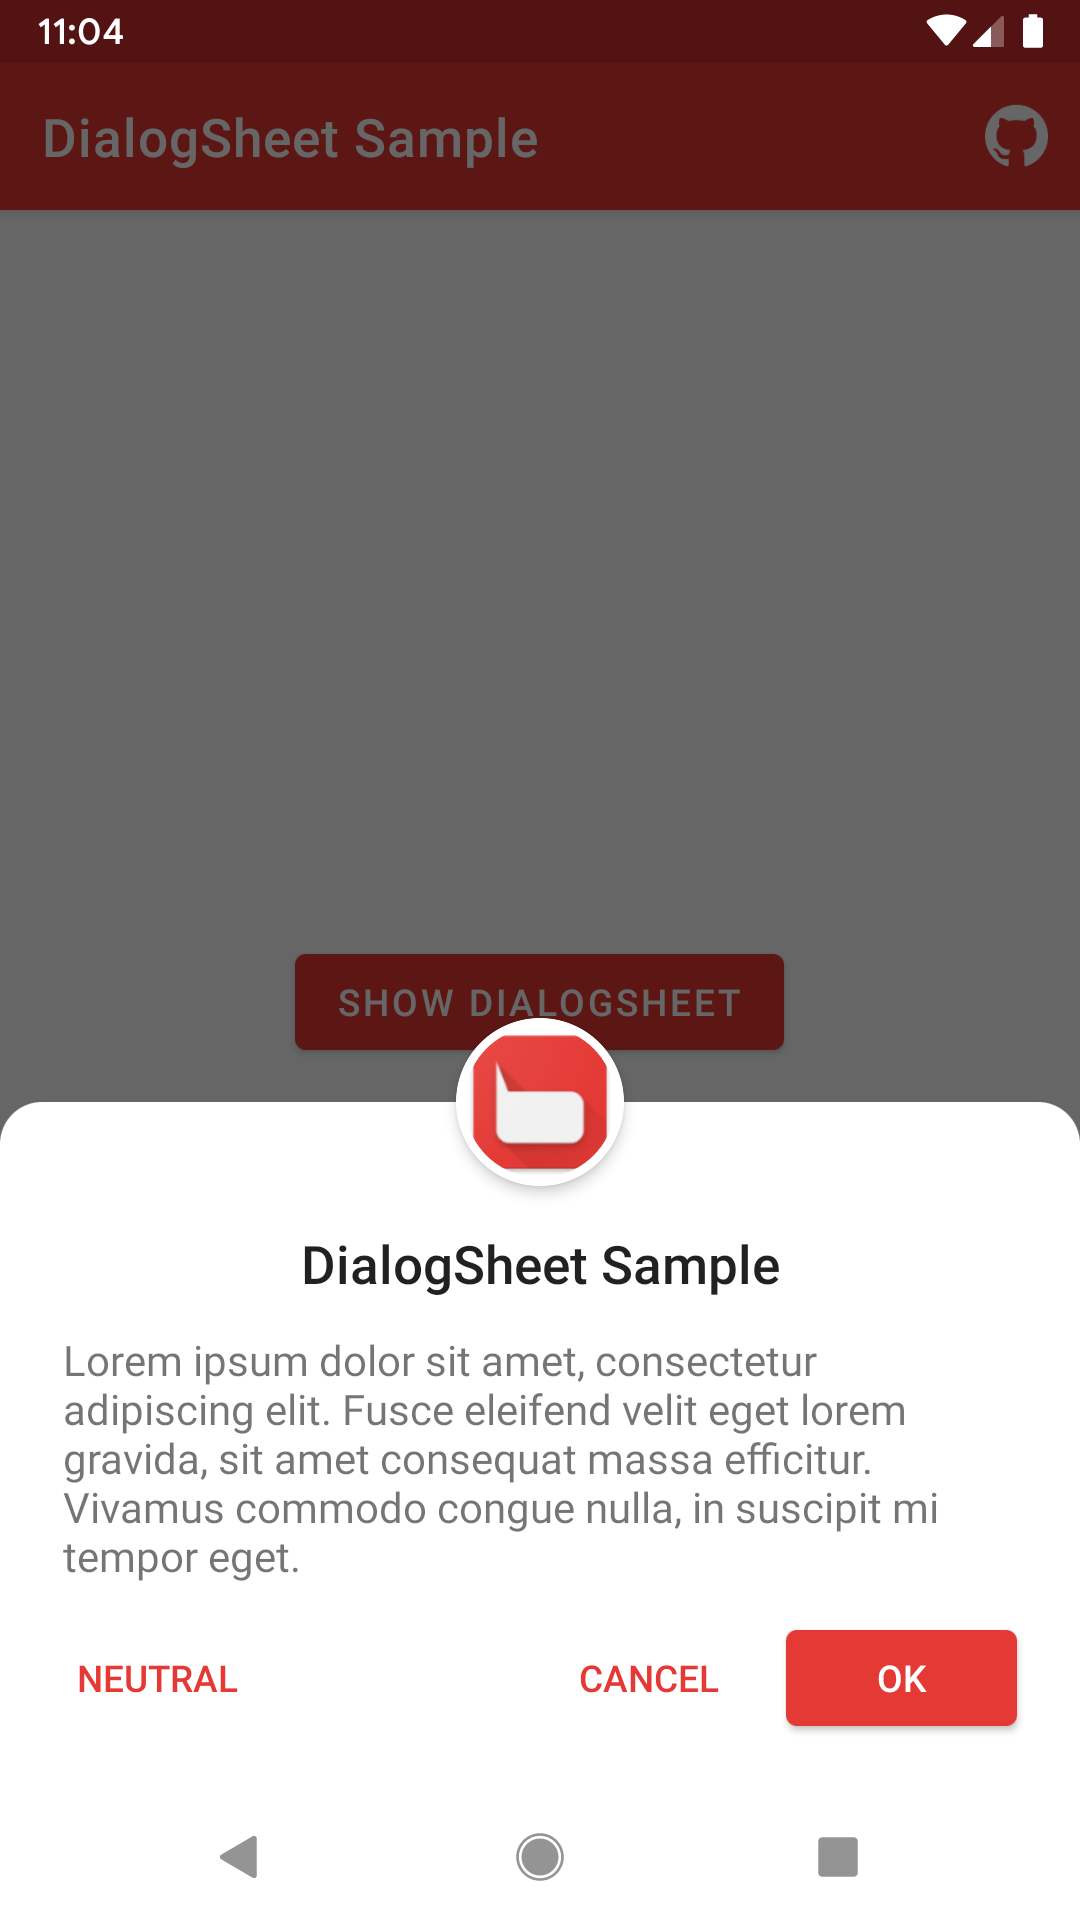
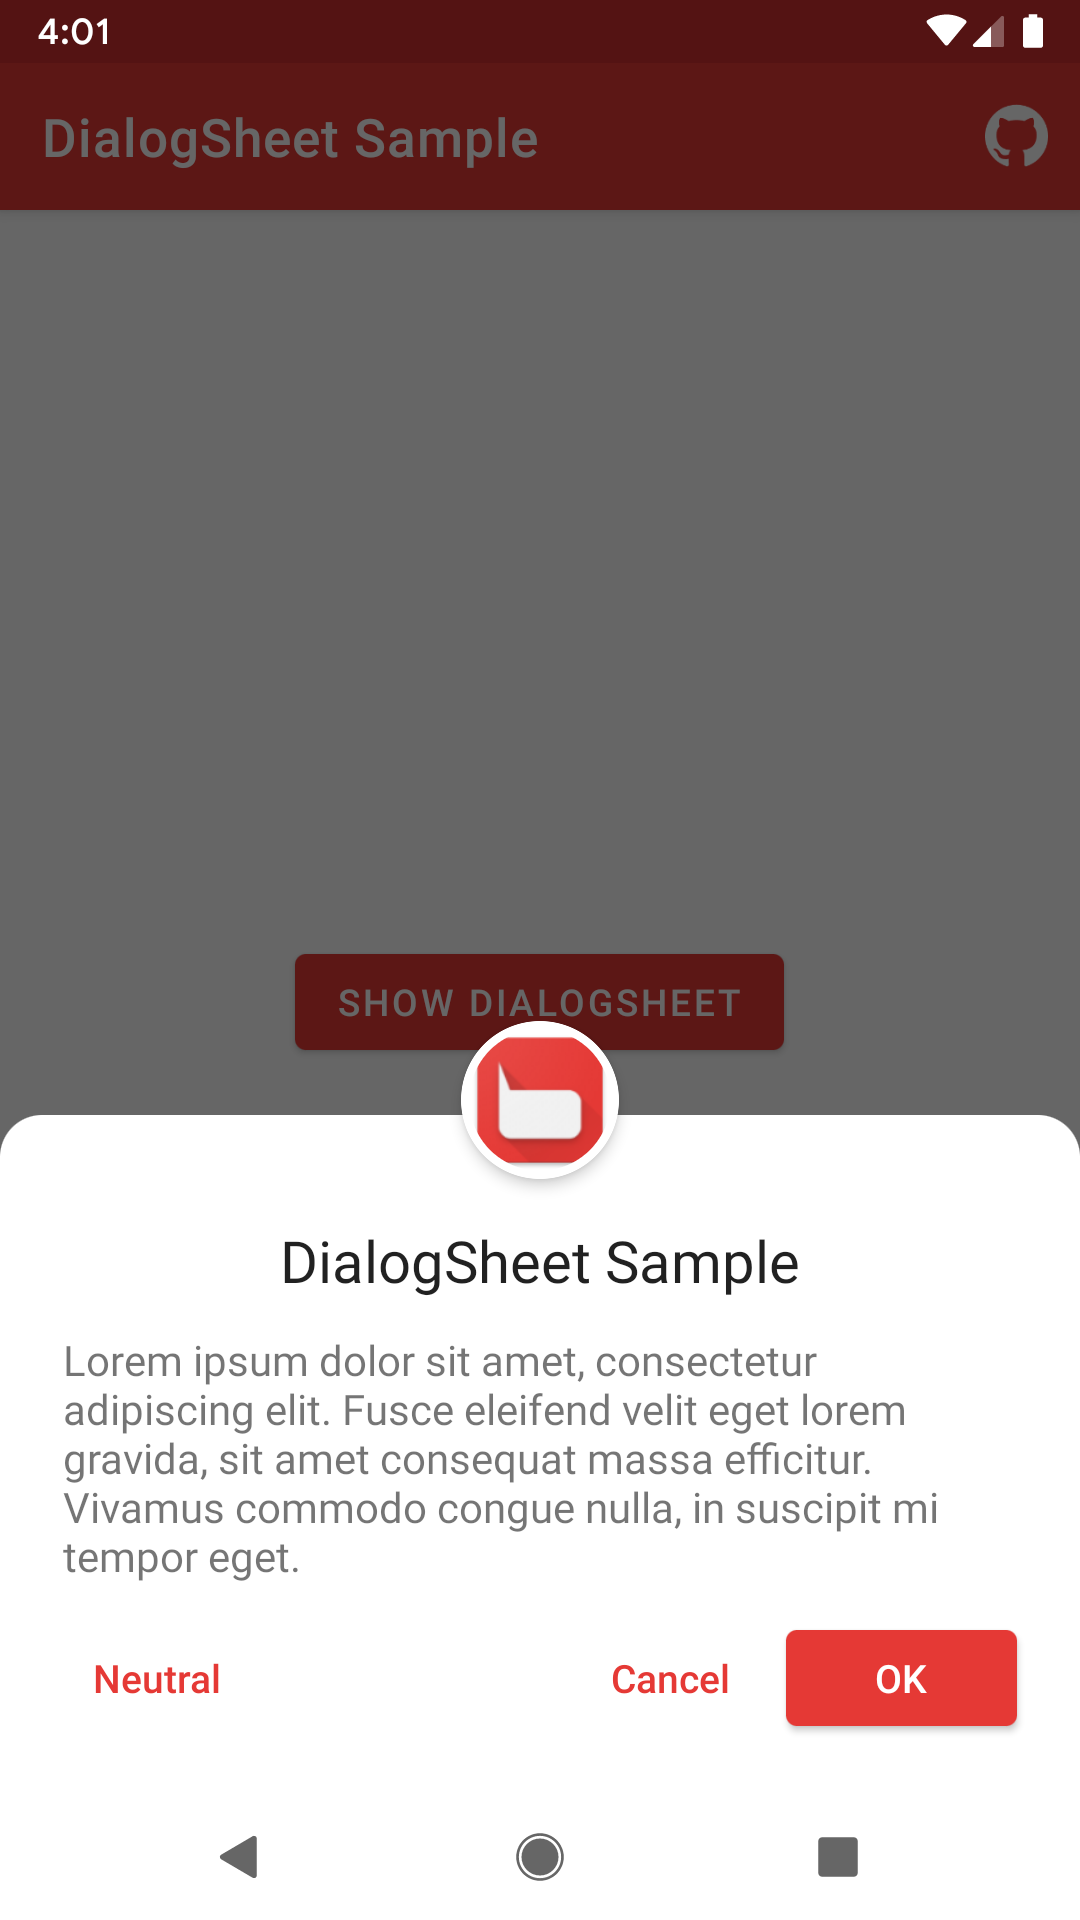
Some v2 design changes

diff --git a/app/src/main/java/com/marcoscg/dialogsheetsample/MainActivity.kt b/app/src/main/java/com/marcoscg/dialogsheetsample/MainActivity.kt
@@ -26,7 +26,7 @@ class MainActivity : AppCompatActivity() {
     private fun createAndShowDialog() {
         val useNewDialogStyle = newStyleCheckBox.isChecked
 
-        val dialogSheet = DialogSheet(this@MainActivity, useNewDialogStyle)
+        val dialogSheet = DialogSheet(this@MainActivity, useNewDialogStyle) // you can also use DialogSheet2 if you want the new style
                 //.setNewDialogStyle() // You can also set new style by this method, but put it on the first line
                 .setTitle(R.string.app_name)
                 .setMessage(R.string.lorem)

diff --git a/dialogsheet/src/main/java/com/marcoscg/dialogsheet/DialogSheet.kt b/dialogsheet/src/main/java/com/marcoscg/dialogsheet/DialogSheet.kt
@@ -35,7 +35,7 @@ import com.marcoscg.dialogsheet.Utils.orDefault
 /**
  * Created by @MarcosCGdev on 01/12/2017.
  */
-class DialogSheet(private val context: Context, private var useNewStyle: Boolean = false) {
+open class DialogSheet(private val context: Context, private var useNewStyle: Boolean = false) {
 
     private var bottomSheetDialog: ExpandedBottomSheetDialog? = null
     private var roundedCorners = true

diff --git a/dialogsheet/src/main/java/com/marcoscg/dialogsheet/DialogSheet2.kt b/dialogsheet/src/main/java/com/marcoscg/dialogsheet/DialogSheet2.kt
@@ -1,0 +1,5 @@
+package com.marcoscg.dialogsheet
+
+import android.content.Context
+
+class DialogSheet2(context: Context) : DialogSheet(context, true)
